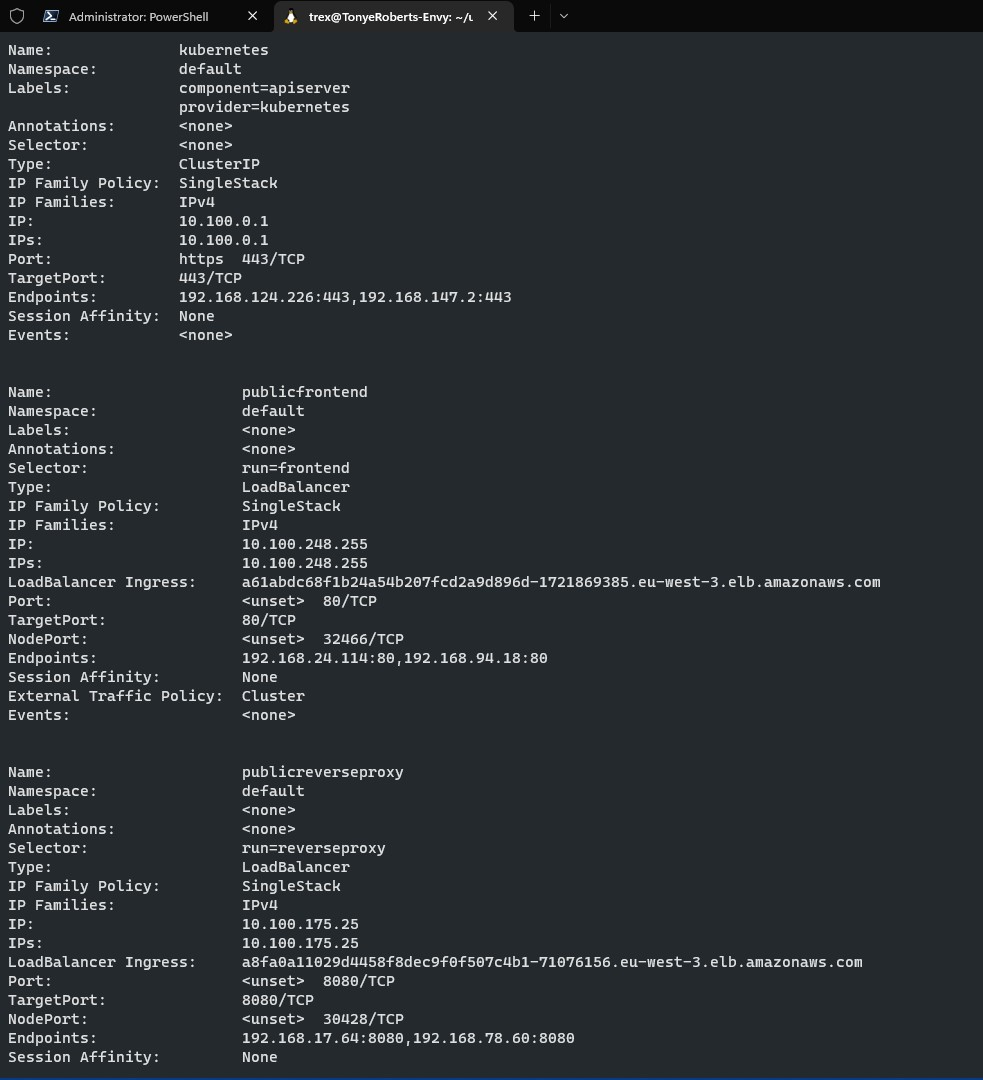
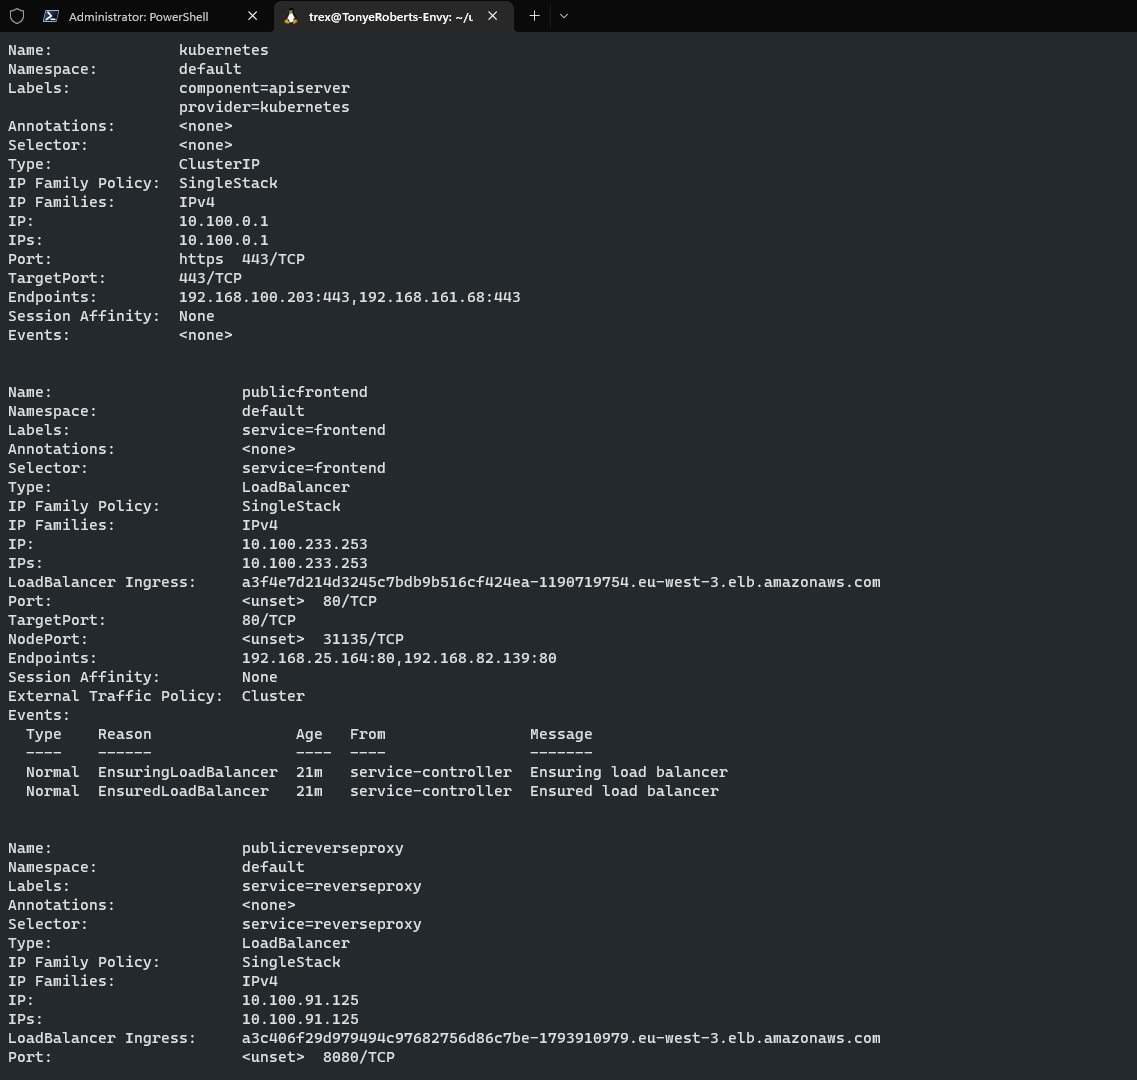
update screenshots and deplyment files

Changed region(s): [[0.0, 0.0, 0.885, 1.0], [0.3967, 0.2444, 0.4578, 0.3056], [0.3052, 0.2444, 0.3662, 0.3056]]

diff --git a/udagram-frontend/src/environments/environment.prod.ts b/udagram-frontend/src/environments/environment.prod.ts
@@ -5,7 +5,7 @@
 export const environment = {
   production: false,
   appName: 'Udagram',
-  apiHost: 'http://a8fa0a11029d4458f8dec9f0f507c4b1-71076156.eu-west-3.elb.amazonaws.com:8080/api/v0'
+  apiHost: 'http://a3c406f29d979494c97682756d86c7be-1793910979.eu-west-3.elb.amazonaws.com:8080/api/v0'
 };
 
 /*

diff --git a/udagram-frontend/src/environments/environment.ts b/udagram-frontend/src/environments/environment.ts
@@ -5,7 +5,7 @@
 export const environment = {
   production: false,
   appName: 'Udagram',
-  apiHost: 'http://a8fa0a11029d4458f8dec9f0f507c4b1-71076156.eu-west-3.elb.amazonaws.com:8080/api/v0'
+  apiHost: 'http://a3c406f29d979494c97682756d86c7be-1793910979.eu-west-3.elb.amazonaws.com:8080/api/v0'
 };
 
 /*
